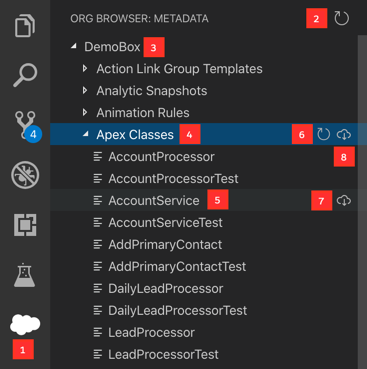
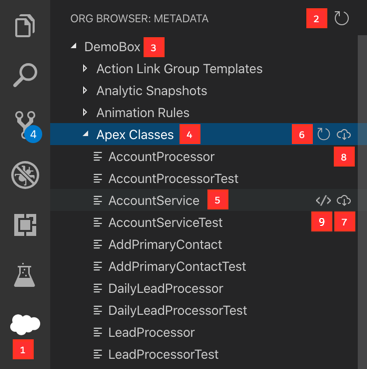
Adding the 'Retrieve and open' option (#2591)
* Adding the 'Retrieve and open' option

This commit adds a new button and the corresponding explanation to the ORG Browser layout. Point 9

* fix: adding a new version of ORG Browser Layout image

* fix: editing documentation

* fix: recovering coverage

* fix: recovering coverage

* fix: sorting the dependencies alphabetically

Changed region(s): [[0.8392, 0.5068, 0.9891, 0.626]]

diff --git a/packages/salesforcedx-vscode-core/test/vscode-integration/channels/index.test.ts b/packages/salesforcedx-vscode-core/test/vscode-integration/channels/index.test.ts
@@ -12,6 +12,7 @@ import {
 } from '@salesforce/salesforcedx-utils-vscode/out/src/cli';
 import { expect } from 'chai';
 import { EOL } from 'os';
+import { createSandbox, SinonSandbox, SinonStub } from 'sinon';
 import { OutputChannel, ViewColumn } from 'vscode';
 import {
   ChannelService,
@@ -50,10 +51,16 @@ describe('Channel', () => {
   describe('Default SFDX channel', () => {
     let mChannel: MockChannel;
     let channelService: ChannelService;
+    let sb: SinonSandbox;
 
     beforeEach(() => {
       mChannel = new MockChannel();
       channelService = new ChannelService(mChannel);
+      sb = createSandbox();
+    });
+
+    afterEach(async () => {
+      sb.restore();
     });
     // Commenting out this because of current issue in vscode 1.33.0 and above
     // https://github.com/Microsoft/vscode/issues/71947
@@ -69,7 +76,6 @@ describe('Channel', () => {
           .build(),
         {}
       ).execute();
-
       channelService.streamCommandOutput(execution);
 
       await new Promise<string>((resolve, reject) => {
@@ -122,6 +128,22 @@ describe('Channel', () => {
       expect(mChannel.value).to.contain(
         nls.localize('channel_end_with_sfdx_not_found')
       );
+    });
+
+    it('should test ensureDoubleDigits functions', async () => {
+      const ensureDoubleDigitsStub: SinonStub = sb.stub(
+        ChannelService.prototype,
+        'ensureDoubleDigits' as any
+      );
+      const execution = new CliCommandExecutor(
+        new SfdxCommandBuilder()
+          .withArg('force')
+          .withArg('--help')
+          .build(),
+        {}
+      ).execute();
+      channelService.streamCommandOutput(execution);
+      expect(ensureDoubleDigitsStub.called).equals(true);
     });
   });
 });

diff --git a/docs/_articles/en/user-guide/org-browser.md b/docs/_articles/en/user-guide/org-browser.md
@@ -17,6 +17,7 @@ The Org Browser displays the available metadata types and their corresponding co
 6. Refresh components for metadata type
 7. Retrieve source for metadata component
 8. Retrieve source for all components of metadata type
+9. Retrieve source for metadata component and open it in VS Code
 
 To open the Org Browser, click the cloud icon in the side bar of the VS Code window **(1)**. If you don't see the icon, make sure your [default org](./en/user-guide/default-org/) is set to a non-scratch org.
 